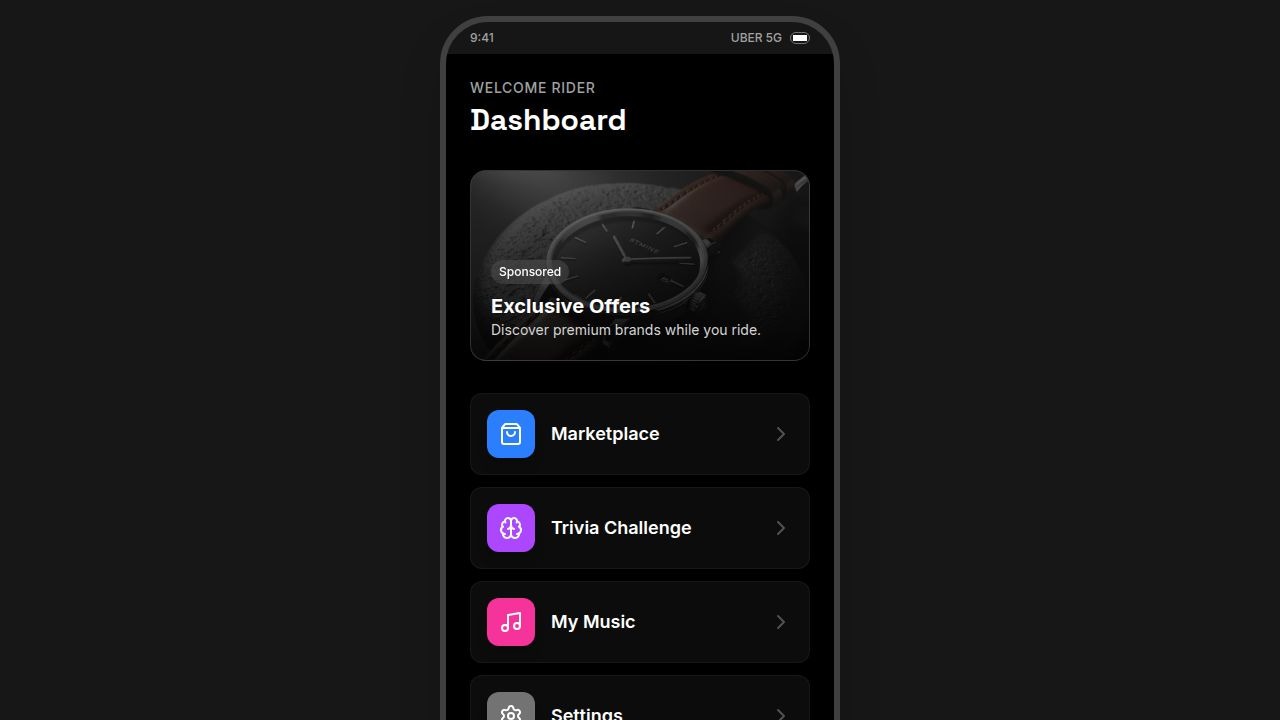
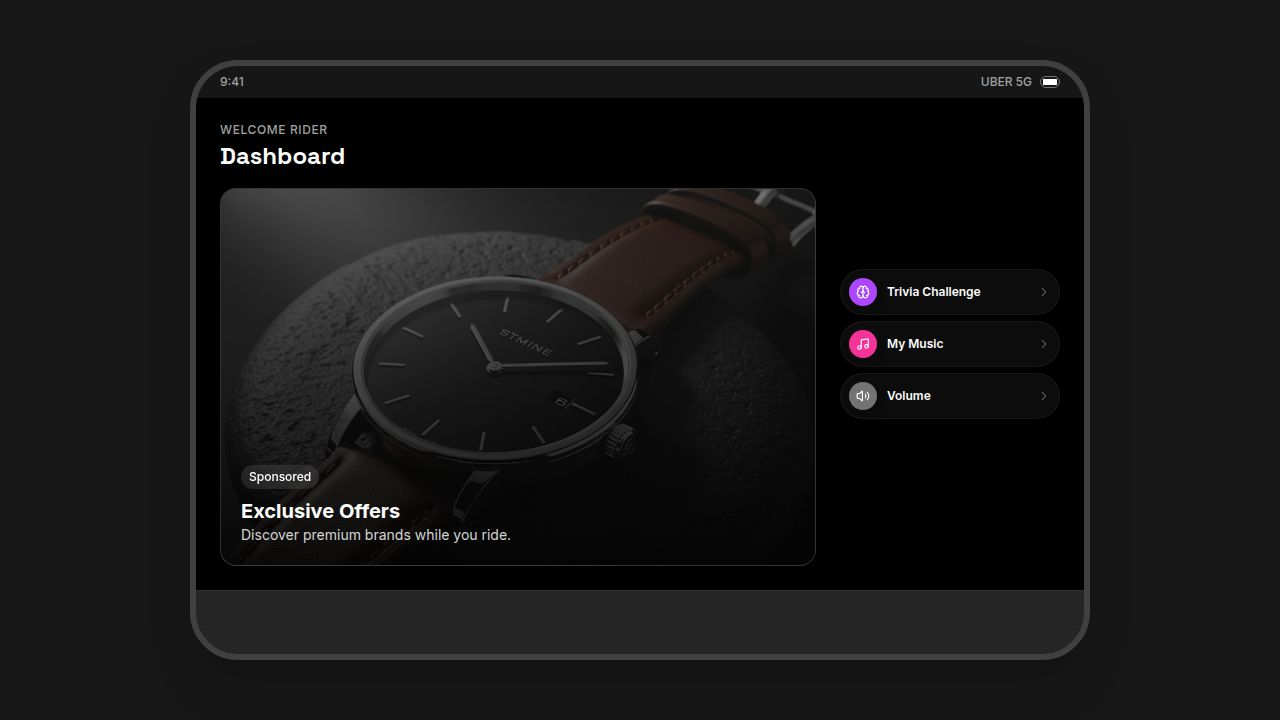
Adapt layout for landscape tablet view by rearranging content
Adjust PodFrame and Home components to support landscape orientation, modifying container sizes and arranging content side-by-side for optimal tablet display.

Replit-Commit-Author: Agent
Replit-Commit-Session-Id: 9bda3785-dddd-4663-b8ce-c65fdfc0e991
Replit-Commit-Checkpoint-Type: full_checkpoint
Replit-Commit-Event-Id: b488dd59-c126-4456-ad19-cf1fe3f76d4a
Replit-Commit-Screenshot-Url: https://storage.googleapis.com/screenshot-production-us-central1/38cc3bcf-56fc-4e5f-9ebf-0e8094625a32/9bda3785-dddd-4663-b8ce-c65fdfc0e991/djjo7SC
Replit-Helium-Checkpoint-Created: true

Changed region(s): [[0.125, 0.0, 0.8438, 1.0], [0.8438, 0.1222, 0.875, 0.8861], [0.1875, 0.6417, 0.25, 0.6722]]

diff --git a/client/src/pages/Home.tsx b/client/src/pages/Home.tsx
@@ -21,29 +21,30 @@ export default function Home() {
         initial={{ opacity: 0, scale: 0.95 }}
         animate={{ opacity: 1, scale: 1 }}
         exit={{ opacity: 0, scale: 0.95 }}
-        className="h-full w-full flex flex-col p-6 space-y-4"
+        className="h-full w-full flex flex-col p-6 space-y-4 landscape:flex-row landscape:space-y-0 landscape:gap-6"
       >
-        {/* Header */}
-        <div className="space-y-0.5">
-          <h2 className="text-neutral-400 text-xs font-medium uppercase tracking-wider">Welcome Rider</h2>
-          <h1 className="text-2xl font-display font-bold text-white">Dashboard</h1>
+        {/* Left Column: Header + Featured Card */}
+        <div className="flex flex-col space-y-4 landscape:flex-1 landscape:min-w-0">
+          <div className="space-y-0.5">
+            <h2 className="text-neutral-400 text-xs font-medium uppercase tracking-wider">Welcome Rider</h2>
+            <h1 className="text-2xl font-display font-bold text-white">Dashboard</h1>
+          </div>
+
+          <Link href="/ads" className="block landscape:flex-1">
+            <div className="w-full aspect-[3/4] landscape:aspect-auto landscape:h-full rounded-2xl bg-gradient-to-br from-neutral-800 to-neutral-900 border border-white/10 p-5 relative overflow-hidden group cursor-pointer">
+              <div className="absolute inset-0 bg-[url('/assets/ads-watch.png')] bg-cover bg-center opacity-40 group-hover:opacity-50 transition-opacity duration-500" />
+              <div className="absolute inset-0 bg-gradient-to-t from-black/80 to-transparent" />
+              <div className="absolute bottom-5 left-5 z-10">
+                <span className="bg-white/10 backdrop-blur-md px-2 py-1 rounded-md text-xs font-medium text-white mb-2 inline-block">Sponsored</span>
+                <h3 className="text-xl font-bold text-white">Exclusive Offers</h3>
+                <p className="text-neutral-300 text-sm">Discover premium brands while you ride.</p>
+              </div>
+            </div>
+          </Link>
         </div>
 
-        {/* Featured Card */}
-        <Link href="/ads">
-          <div className="w-full aspect-[3/4] rounded-2xl bg-gradient-to-br from-neutral-800 to-neutral-900 border border-white/10 p-5 relative overflow-hidden group cursor-pointer">
-            <div className="absolute inset-0 bg-[url('/assets/ads-watch.png')] bg-cover bg-center opacity-40 group-hover:opacity-50 transition-opacity duration-500" />
-            <div className="absolute inset-0 bg-gradient-to-t from-black/80 to-transparent" />
-            <div className="absolute bottom-5 left-5 z-10">
-              <span className="bg-white/10 backdrop-blur-md px-2 py-1 rounded-md text-xs font-medium text-white mb-2 inline-block">Sponsored</span>
-              <h3 className="text-xl font-bold text-white">Exclusive Offers</h3>
-              <p className="text-neutral-300 text-sm">Discover premium brands while you ride.</p>
-            </div>
-          </div>
-        </Link>
-
-        {/* Menu Grid */}
-        <div className="grid grid-cols-1 gap-1.5">
+        {/* Right Column: Menu Grid */}
+        <div className="flex flex-col gap-1.5 landscape:w-[220px] landscape:justify-center landscape:shrink-0">
           {menuItems.map((item) => (
             <Link key={item.id} href={item.href}>
               <div className="flex items-center p-2 bg-neutral-900/50 border border-white/5 hover:bg-white/5 rounded-lg transition-all active:scale-[0.98] cursor-pointer group">
@@ -58,7 +59,6 @@ export default function Home() {
             </Link>
           ))}
           
-          {/* Volume Control Button */}
           <div 
             onClick={() => setShowVolume(true)}
             className="flex items-center p-2 bg-neutral-900/50 border border-white/5 hover:bg-white/5 rounded-lg transition-all active:scale-[0.98] cursor-pointer group"

diff --git a/client/src/components/layout/PodFrame.tsx b/client/src/components/layout/PodFrame.tsx
@@ -12,8 +12,8 @@ interface PodFrameProps {
 export function PodFrame({ children, className, onBack, showBack }: PodFrameProps) {
   return (
     <div className="min-h-screen w-full flex items-center justify-center bg-neutral-900 p-4 font-sans text-white">
-      {/* Device Body */}
-      <div className="relative w-full max-w-[400px] h-[800px] bg-neutral-800 rounded-[3rem] shadow-2xl border-[6px] border-neutral-700 overflow-hidden flex flex-col">
+      {/* Device Body - responsive for landscape iPad */}
+      <div className="relative w-full max-w-[400px] h-[800px] landscape:max-w-[900px] landscape:h-[600px] bg-neutral-800 rounded-[3rem] shadow-2xl border-[6px] border-neutral-700 overflow-hidden flex flex-col">
         {/* Status Bar */}
         <div className="h-8 w-full bg-black/40 flex items-center justify-between px-6 text-xs font-medium text-neutral-400 z-10 shrink-0">
           <span>9:41</span>
